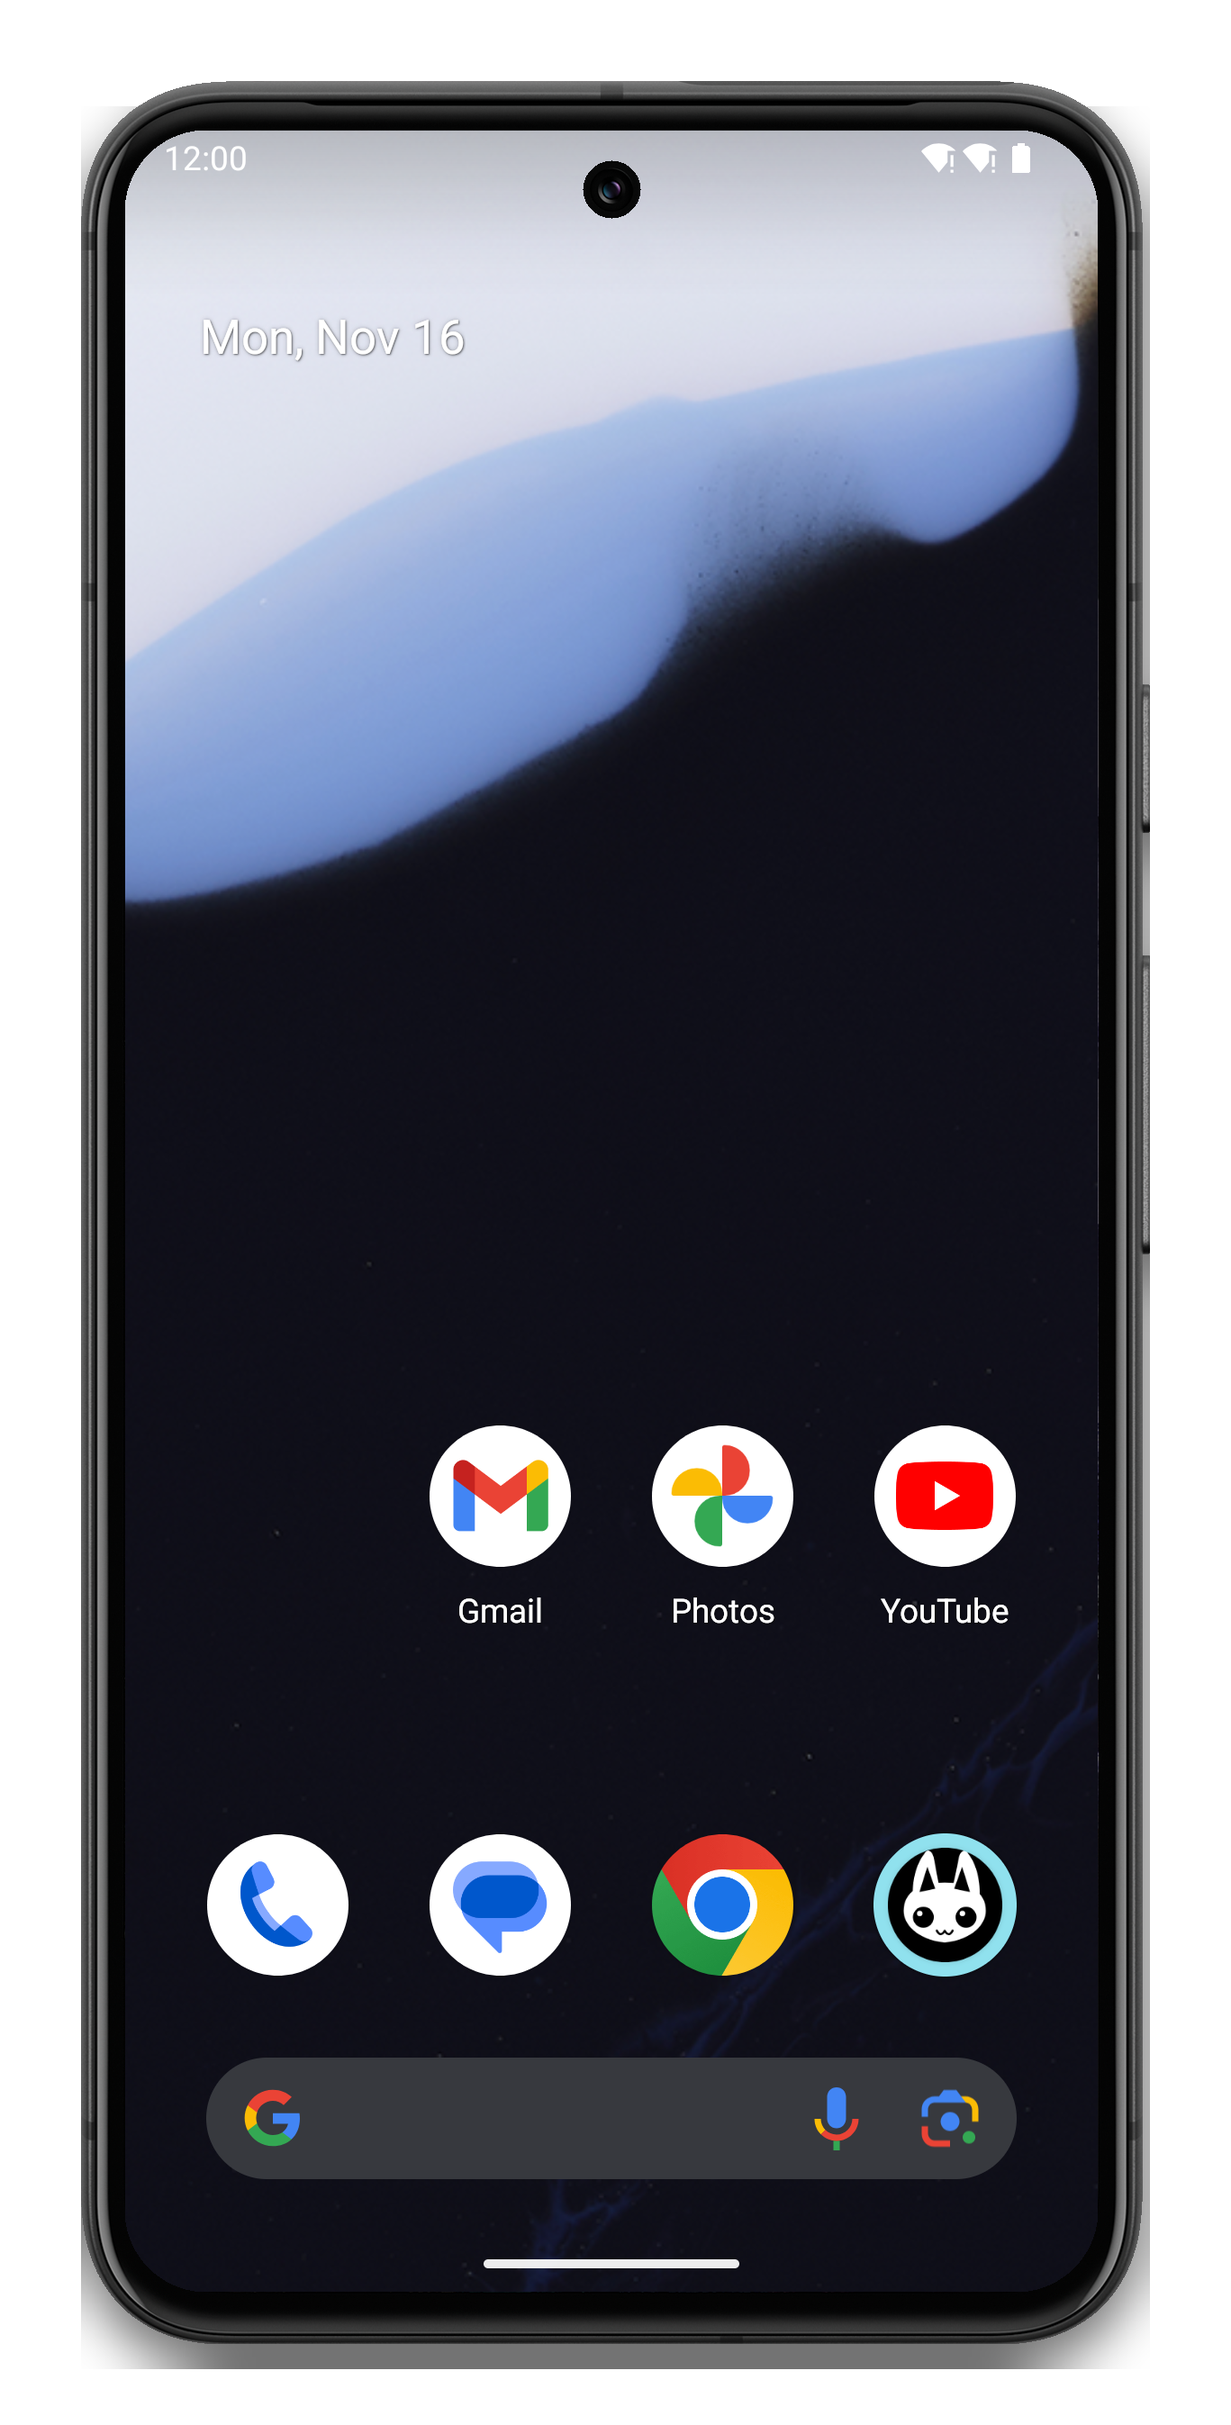
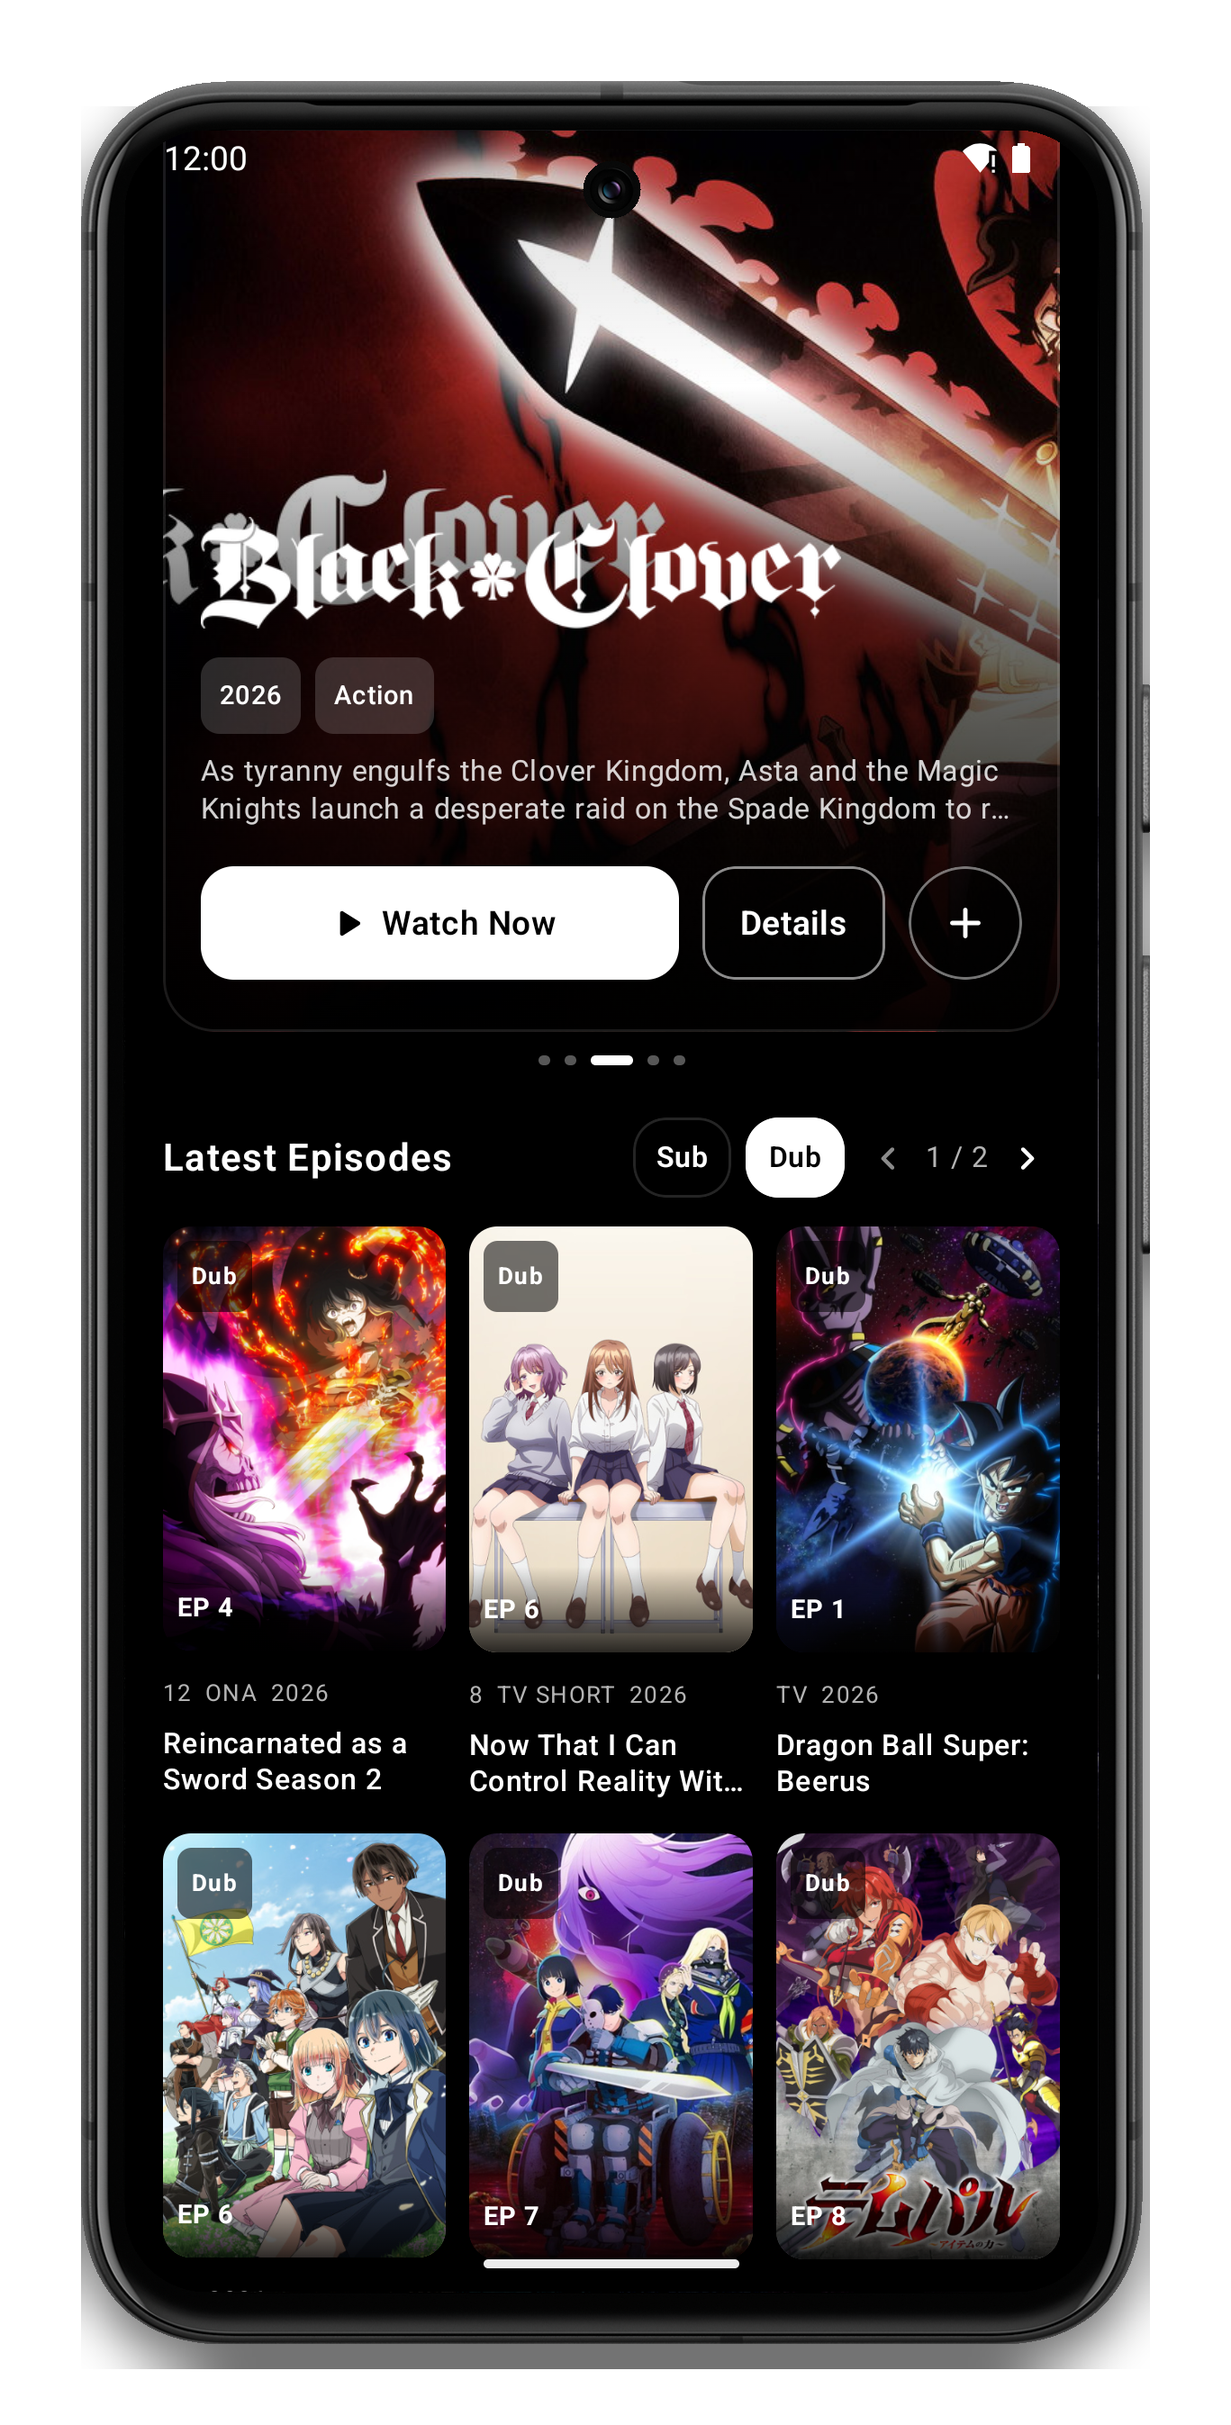
Fix Bugbot latest matching and refresh Pixel 8 screenshots.
Tighten AniList title matching to exact only, keep Sub/Dub lists
separate with shared shelf filters, and drop fake relative times.
README screenshots are new home/title captures in Pixel 8 frames.

diff --git a/apps/android/app/src/main/java/site/anikitty/app/data/servers/ProviderLatestMapper.kt b/apps/android/app/src/main/java/site/anikitty/app/data/servers/ProviderLatestMapper.kt
@@ -30,9 +30,8 @@ object ProviderLatestMapper {
         known: Map<Int, AnimeSummary> = emptyMap(),
     ): List<AiringSlot> = withContext(Dispatchers.IO) {
         if (items.isEmpty()) return@withContext emptyList()
-        val now = System.currentTimeMillis() / 1000L
         coroutineScope {
-            items.mapIndexed { index, item ->
+            items.map { item ->
                 async {
                     val anime = resolveAnime(item, aniList, known) ?: return@async null
                     val episode = item.episodeFor(audio).coerceAtLeast(1)
@@ -41,8 +40,8 @@ object ProviderLatestMapper {
                             coverImageUrl = anime.coverImageUrl ?: item.posterUrl,
                         ),
                         episode = episode,
-                        // Preserve widget order: newer cards first.
-                        airingAtEpochSec = now - index * 60L,
+                        // Unknown scrape timestamp — blank relative time in the UI.
+                        airingAtEpochSec = 0L,
                         subEpisodes = item.latestSub.takeIf { it > 0 },
                         dubEpisodes = item.latestDub.takeIf { it > 0 },
                     )
@@ -56,9 +55,13 @@ object ProviderLatestMapper {
         aniList: AniListClient,
         known: Map<Int, AnimeSummary>,
     ): AnimeSummary? {
-        tipCache[item.siteId]?.let { id ->
-            known[id]?.let { return it }
-            runCatching { aniList.media(id) }.getOrNull()?.let { return it }
+        tipCache[item.siteId]?.let { cachedId ->
+            val cached = known[cachedId] ?: runCatching { aniList.media(cachedId) }.getOrNull()
+            if (cached != null && mediaMatchesTitle(item.title, cached)) {
+                return cached
+            }
+            // Stale or wrong cache (same-named film / recap) — search again.
+            tipCache.remove(item.siteId)
         }
         val hits = runCatching { aniList.search(item.title, perPage = 8) }.getOrDefault(emptyList())
         val match = pickMatch(item.title, hits) ?: return null
@@ -66,14 +69,31 @@ object ProviderLatestMapper {
         return match
     }
 
+    /**
+     * Exact normalized title / romaji / synonym only.
+     * Never substring or “first hit” — those open the wrong AniList media.
+     */
     internal fun pickMatch(title: String, hits: List<AnimeSummary>): AnimeSummary? {
         if (hits.isEmpty()) return null
         val needle = normalize(title)
-        hits.firstOrNull { normalize(it.title) == needle }?.let { return it }
-        hits.firstOrNull { normalize(it.romajiTitle.orEmpty()) == needle }?.let { return it }
-        hits.firstOrNull { normalize(it.title).contains(needle) || needle.contains(normalize(it.title)) }
-            ?.let { return it }
-        return hits.firstOrNull()
+        if (needle.isBlank()) return null
+        return hits.firstOrNull { mediaMatchesTitle(needle, it, alreadyNormalized = true) }
+    }
+
+    private fun mediaMatchesTitle(
+        titleOrNeedle: String,
+        anime: AnimeSummary,
+        alreadyNormalized: Boolean = false,
+    ): Boolean {
+        val needle = if (alreadyNormalized) titleOrNeedle else normalize(titleOrNeedle)
+        if (needle.isBlank()) return false
+        val candidates = buildList {
+            add(anime.title)
+            anime.romajiTitle?.let { add(it) }
+            anime.nativeTitle?.let { add(it) }
+            addAll(anime.synonyms)
+        }
+        return candidates.any { normalize(it) == needle }
     }
 
     private fun normalize(raw: String): String =

diff --git a/apps/android/app/src/main/java/site/anikitty/app/ui/app/LocalFirstApp.kt b/apps/android/app/src/main/java/site/anikitty/app/ui/app/LocalFirstApp.kt
@@ -932,7 +932,8 @@ private fun HomeFeed(
             emptyList()
         }
         if (mappedSub.isNotEmpty() || mappedDub.isNotEmpty()) {
-            airingToday = mappedSub.ifEmpty { mappedDub }
+            // Keep Sub and Dub lists separate — never show Dub cards under Sub.
+            airingToday = mappedSub
             latestDub = mappedDub
         } else {
             val now = System.currentTimeMillis() / 1000L
@@ -1166,10 +1167,12 @@ private fun HomeFeed(
             }
             else -> {
                 val nowSec = System.currentTimeMillis() / 1000L
-                val latestSlots = airingToday
-                val latestDubSlots = latestDub
-                    .filter { it.airingAtEpochSec <= nowSec && it.anime.onShelf(shelf) }
-                    .sortedByDescending { it.airingAtEpochSec }
+                fun AiringSlot.onLatestShelf(): Boolean {
+                    val aired = airingAtEpochSec <= 0L || airingAtEpochSec <= nowSec
+                    return aired && anime.onShelf(shelf)
+                }
+                val latestSlots = airingToday.filter { it.onLatestShelf() }
+                val latestDubSlots = latestDub.filter { it.onLatestShelf() }
                 val heroItems = trending.filter { it.onShelf(shelf) }
                 val topAiringItems = (seasonal + trending)
                     .filter { it.status.equals("RELEASING", ignoreCase = true) && it.onShelf(shelf) }

diff --git a/apps/android/app/src/main/java/site/anikitty/app/ui/app/HomePage.kt b/apps/android/app/src/main/java/site/anikitty/app/ui/app/HomePage.kt
@@ -827,13 +827,17 @@ internal fun HomeLatestEpisodes(
         mutableStateOf(prefs.getString("audio", "sub")?.takeIf { it == "dub" } ?: "sub")
     }
     var page by rememberSaveable { mutableIntStateOf(0) }
-    val active = when {
-        audio == "dub" && dubSlots.isNotEmpty() -> dubSlots
-        else -> slots
-    }
-    if (active.isEmpty() && slots.isEmpty() && dubSlots.isEmpty()) return
+    // Sub and Dub are separate scrape lists — never fall back across audio.
+    val active = if (audio == "dub") dubSlots else slots
+    if (slots.isEmpty() && dubSlots.isEmpty()) return
     // Reset paging when the audio list changes length.
     LaunchedEffect(audio, active.size) { page = 0 }
+    LaunchedEffect(dubSlots.isEmpty()) {
+        if (audio == "dub" && dubSlots.isEmpty()) {
+            audio = "sub"
+            prefs.edit().putString("audio", "sub").apply()
+        }
+    }
     BoxWithConstraints(
         modifier = Modifier
             .fillMaxWidth()
@@ -869,7 +873,7 @@ internal fun HomeLatestEpisodes(
                 HomeAudioChip(
                     label = "Dub",
                     selected = audio == "dub",
-                    enabled = dubSlots.isNotEmpty() || slots.any { (it.dubEpisodes ?: 0) > 0 },
+                    enabled = dubSlots.isNotEmpty(),
                 ) {
                     audio = "dub"
                     prefs.edit().putString("audio", "dub").apply()

diff --git a/apps/android/app/src/test/java/site/anikitty/app/data/servers/ProviderLatestMapperTest.kt b/apps/android/app/src/test/java/site/anikitty/app/data/servers/ProviderLatestMapperTest.kt
@@ -4,6 +4,7 @@
 package site.anikitty.app.data.servers
 
 import org.junit.Assert.assertEquals
+import org.junit.Assert.assertNull
 import org.junit.Test
 import site.anikitty.app.data.anilist.AnimeSummary
 
@@ -16,5 +17,30 @@ class ProviderLatestMapperTest {
         )
         val match = ProviderLatestMapper.pickMatch("From Far Away, From the Other Side", hits)
         assertEquals(2, match?.id)
+    }
+
+    @Test
+    fun pickMatchRejectsSubstringAndFirstHit() {
+        val hits = listOf(
+            AnimeSummary(1, "From Far Away Recap", null, episodes = 1, format = "SPECIAL", averageScore = null),
+            AnimeSummary(9, "Totally Different Show", null, episodes = 12, format = "TV", averageScore = null),
+        )
+        assertNull(ProviderLatestMapper.pickMatch("From Far Away, From the Other Side", hits))
+    }
+
+    @Test
+    fun pickMatchAcceptsRomajiExact() {
+        val hits = listOf(
+            AnimeSummary(
+                3,
+                "Frieren: Beyond Journey's End",
+                null,
+                episodes = 28,
+                format = "TV",
+                averageScore = 90,
+                romajiTitle = "Sousou no Frieren",
+            ),
+        )
+        assertEquals(3, ProviderLatestMapper.pickMatch("Sousou no Frieren", hits)?.id)
     }
 }

diff --git a/README.md b/README.md
@@ -1,18 +1,27 @@
 <div align="center">
-  <img src="docs/brand/anikitty-icon-512.png" alt="AniKitty" width="120" height="120">
+  <img src="docs/brand/anikitty-icon-512.png" alt="AniKitty" width="96" height="96">
 
   <h1>AniKitty</h1>
 
-  <p>Your AniList, on the phone. The catalog comes from AniList. The video plays with Media3.</p>
+  <p><strong>Your AniList, on the phone.</strong><br>
+  Catalog from AniList. Playback with Media3. Progress stays on device.</p>
 
   <p>
-    <a href="https://github.com/fampep/anikitty/releases/latest"><img src="https://img.shields.io/github/v/release/fampep/anikitty?display_name=tag&style=for-the-badge&label=stable&labelColor=black&color=white" alt="Latest stable release"></a>
-    <a href="https://github.com/fampep/anikitty/releases"><img src="https://img.shields.io/github/v/release/fampep/anikitty?include_prereleases&display_name=tag&style=for-the-badge&label=dev&labelColor=black&color=white" alt="Latest release, including dev builds"></a>
-    <a href="https://github.com/fampep/anikitty/releases"><img src="https://img.shields.io/github/downloads/fampep/anikitty/total?style=for-the-badge&label=downloads&labelColor=black&color=white" alt="Downloads"></a>
-    <a href="https://github.com/fampep/anikitty/blob/main/LICENSE"><img src="https://img.shields.io/badge/license-Apache_2.0-white?labelColor=black&style=for-the-badge" alt="Apache License 2.0"></a>
-    <img src="https://img.shields.io/badge/platform-Android_8%2B-white?labelColor=black&style=for-the-badge" alt="Android 8 or newer">
+    <a href="https://github.com/fampep/anikitty/releases/latest"><img src="https://img.shields.io/github/v/release/fampep/anikitty?display_name=tag&style=for-the-badge&label=stable&labelColor=0a0a0a&color=f5f5f5" alt="Latest stable release"></a>
+    <a href="https://github.com/fampep/anikitty/releases"><img src="https://img.shields.io/github/v/release/fampep/anikitty?include_prereleases&display_name=tag&style=for-the-badge&label=dev&labelColor=0a0a0a&color=f5f5f5" alt="Latest release, including dev builds"></a>
+    <a href="https://github.com/fampep/anikitty/releases"><img src="https://img.shields.io/github/downloads/fampep/anikitty/total?style=for-the-badge&label=downloads&labelColor=0a0a0a&color=f5f5f5" alt="Downloads"></a>
+    <a href="https://github.com/fampep/anikitty/blob/main/LICENSE"><img src="https://img.shields.io/badge/license-Apache_2.0-f5f5f5?labelColor=0a0a0a&style=for-the-badge" alt="Apache License 2.0"></a>
+    <img src="https://img.shields.io/badge/Android-8%2B-f5f5f5?labelColor=0a0a0a&style=for-the-badge" alt="Android 8 or newer">
   </p>
 </div>
+
+<p align="center">
+  <img src="docs/screenshots/home.png" alt="Home" width="260">
+  &nbsp;
+  <img src="docs/screenshots/title.png" alt="Title page" width="260">
+</p>
+
+<p align="center">Home and a title page on Pixel 8 — AniList catalog, true Sub / Dub latest.</p>
 
 > [!WARNING]
 > **Unofficial.** AniKitty is not affiliated with AniList, MyAnimeList, any studio, or any streaming site.
@@ -23,43 +32,42 @@
 >
 > **No warranty. Use at your own risk.** Sideload APKs only from the [official releases](https://github.com/fampep/anikitty/releases) of this repository. A file from anywhere else is not this project. Dev builds are unstable and can break from one day to the next.
 
-<p align="center">
-  <img src="docs/screenshots/home.png" alt="Home" width="260">
-  &nbsp;
-  <img src="docs/screenshots/title.png" alt="Title page" width="260">
-</p>
+## Get the APK
 
-<p align="center">Home and a title page, in Pixel frames.</p>
-
-## Download
-
-Package `site.anikitty.app`. Android 8 or newer.
+Package `site.anikitty.app` · Android 8+
 
 <p align="center">
-  <a href="https://github.com/fampep/anikitty/releases/latest"><img src="https://img.shields.io/badge/download-stable-white?style=for-the-badge&labelColor=black" alt="Download the latest stable release"></a>
+  <a href="https://github.com/fampep/anikitty/releases/latest"><img src="https://img.shields.io/badge/download-stable-f5f5f5?style=for-the-badge&labelColor=0a0a0a" alt="Download the latest stable release"></a>
   &nbsp;
-  <a href="https://github.com/fampep/anikitty/releases/download/dev/anikitty-dev.apk"><img src="https://img.shields.io/badge/download-dev-white?style=for-the-badge&labelColor=black" alt="Download the latest dev build"></a>
+  <a href="https://github.com/fampep/anikitty/releases/download/dev/anikitty-dev.apk"><img src="https://img.shields.io/badge/download-dev-f5f5f5?style=for-the-badge&labelColor=0a0a0a" alt="Download the latest dev build"></a>
 </p>
 
-Stable is the latest stable release. Dev is the rolling `anikitty-dev.apk`. A push to `main` publishes a signed dev build. Dev builds are newer and unstable.
+Stable is the latest tagged release. Dev is the rolling `anikitty-dev.apk` — every push to `main` publishes a signed build. Prefer stable unless you want the newest (and breakiest) bits.
 
-## What it does
+## What you get
 
-- The catalog is AniList. Search, the season, and a title page use it.
-- The player is Media3, on the phone. Watch progress stays on the device.
-- **Anikoto**, **Gotaku**, **reanime**, and **mkissa** ship in the app. Anything else is an extension you add. The app does not preload one. Anikoto tries anikoto.cz first and [kotoplay.to](https://kotoplay.to/) when Anikoto is down or has no source. Those sites can change their player without notice, and a title can stop playing when they do.
-- The phone asks a resolver for a URL and plays that URL. It does not upload an episode and it does not keep a copy.
+| | |
+| --- | --- |
+| **Catalog** | AniList search, season, schedule, and title pages |
+| **Series** | Related TV / ONA entries the AniList way (prequel / sequel). TMDB is for banner, logo, and stills |
+| **Latest** | True Sub / Dub episode counts from the scrape widgets, not just air dates |
+| **Player** | Media3 on-device. Watch progress stays on the phone |
+| **Sources** | **Anikoto**, **Gotaku**, **reanime**, and **mkissa** ship in-app. Anything else is an extension you add |
+
+Anikoto tries anikoto.cz first and [kotoplay.to](https://kotoplay.to/) when Anikoto is down or has no source. Sites change their players without notice — a title can stop playing when they do. The phone asks a resolver for a URL and plays that URL. It does not upload an episode and it does not keep a copy.
+
+## Build
 
 ```bash
 cd apps/android
 ./gradlew :app:assembleRelease
 ```
 
-The version comes from [`VERSION`](VERSION). Extension authors: [`extensions/GUIDE.md`](extensions/GUIDE.md).
+Version comes from [`VERSION`](VERSION). Extension authors: [`extensions/GUIDE.md`](extensions/GUIDE.md).
 
 ## License
 
-Copyright 2026 fampep. [Apache License 2.0](LICENSE).
+Copyright 2026 fampep · [Apache License 2.0](LICENSE)
 
 ## Disclaimer
 
@@ -77,4 +85,4 @@ Community extensions are not part of this repository. See [`extensions/DISCLAIME
 
 This product uses the TMDB API but is not endorsed or certified by TMDB.
 
-Questions and bugs go in [GitHub issues](https://github.com/fampep/anikitty/issues). Pull requests: [CONTRIBUTING.md](CONTRIBUTING.md).
+Questions and bugs → [GitHub issues](https://github.com/fampep/anikitty/issues). Pull requests → [CONTRIBUTING.md](CONTRIBUTING.md).

diff --git a/docs/screenshots/README.md b/docs/screenshots/README.md
@@ -44,5 +44,5 @@ The script fetches the Pixel 8 `layout`, `back.webp`, and `mask.webp` from the A
 
 | File | Screen |
 | --- | --- |
-| `raw/home.png` | Home: featured title and continue watching |
+| `raw/home.png` | Home: featured title and Latest Episodes (Sub / Dub) |
 | `raw/title.png` | Title page |
